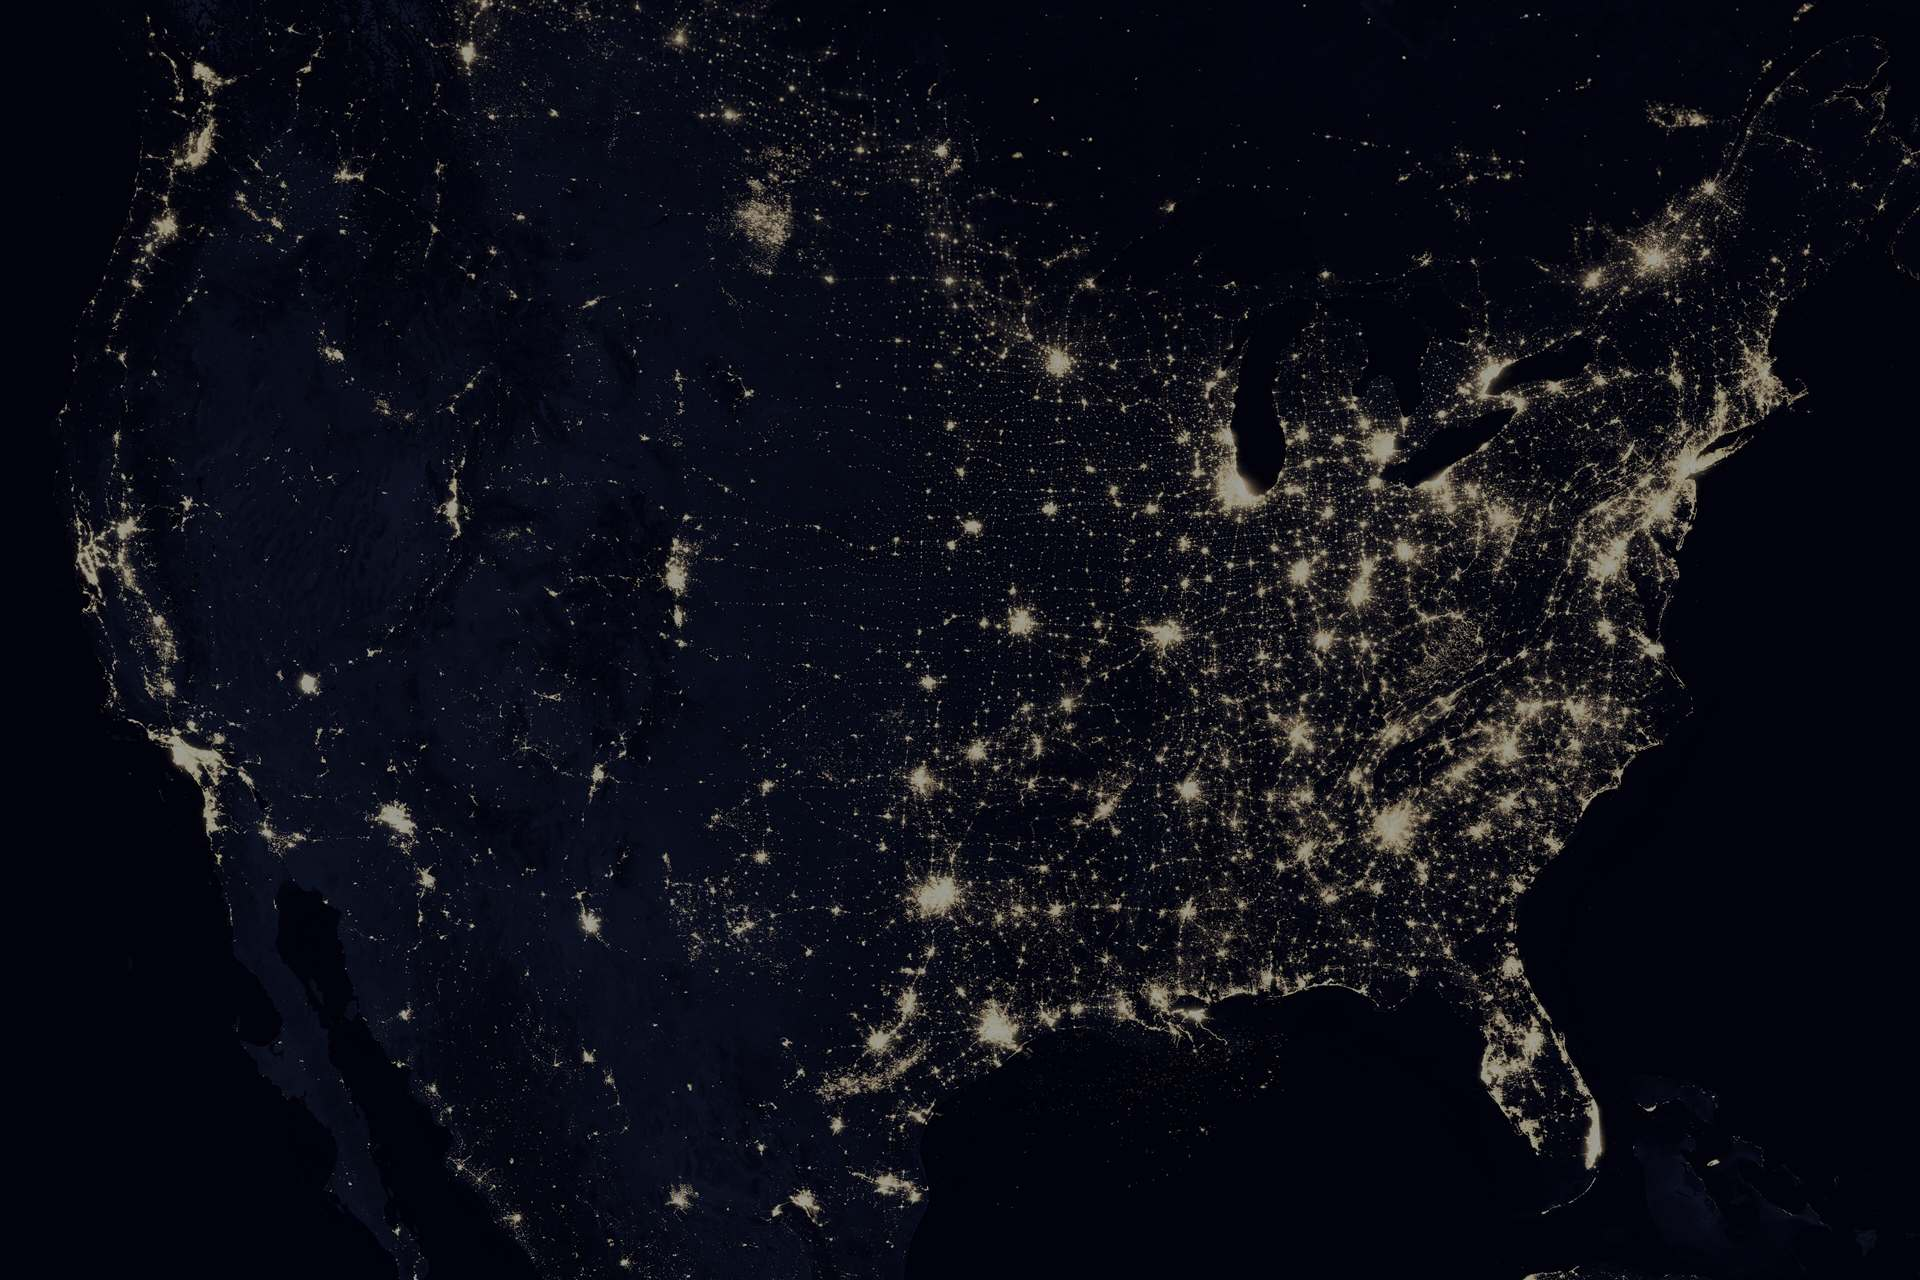
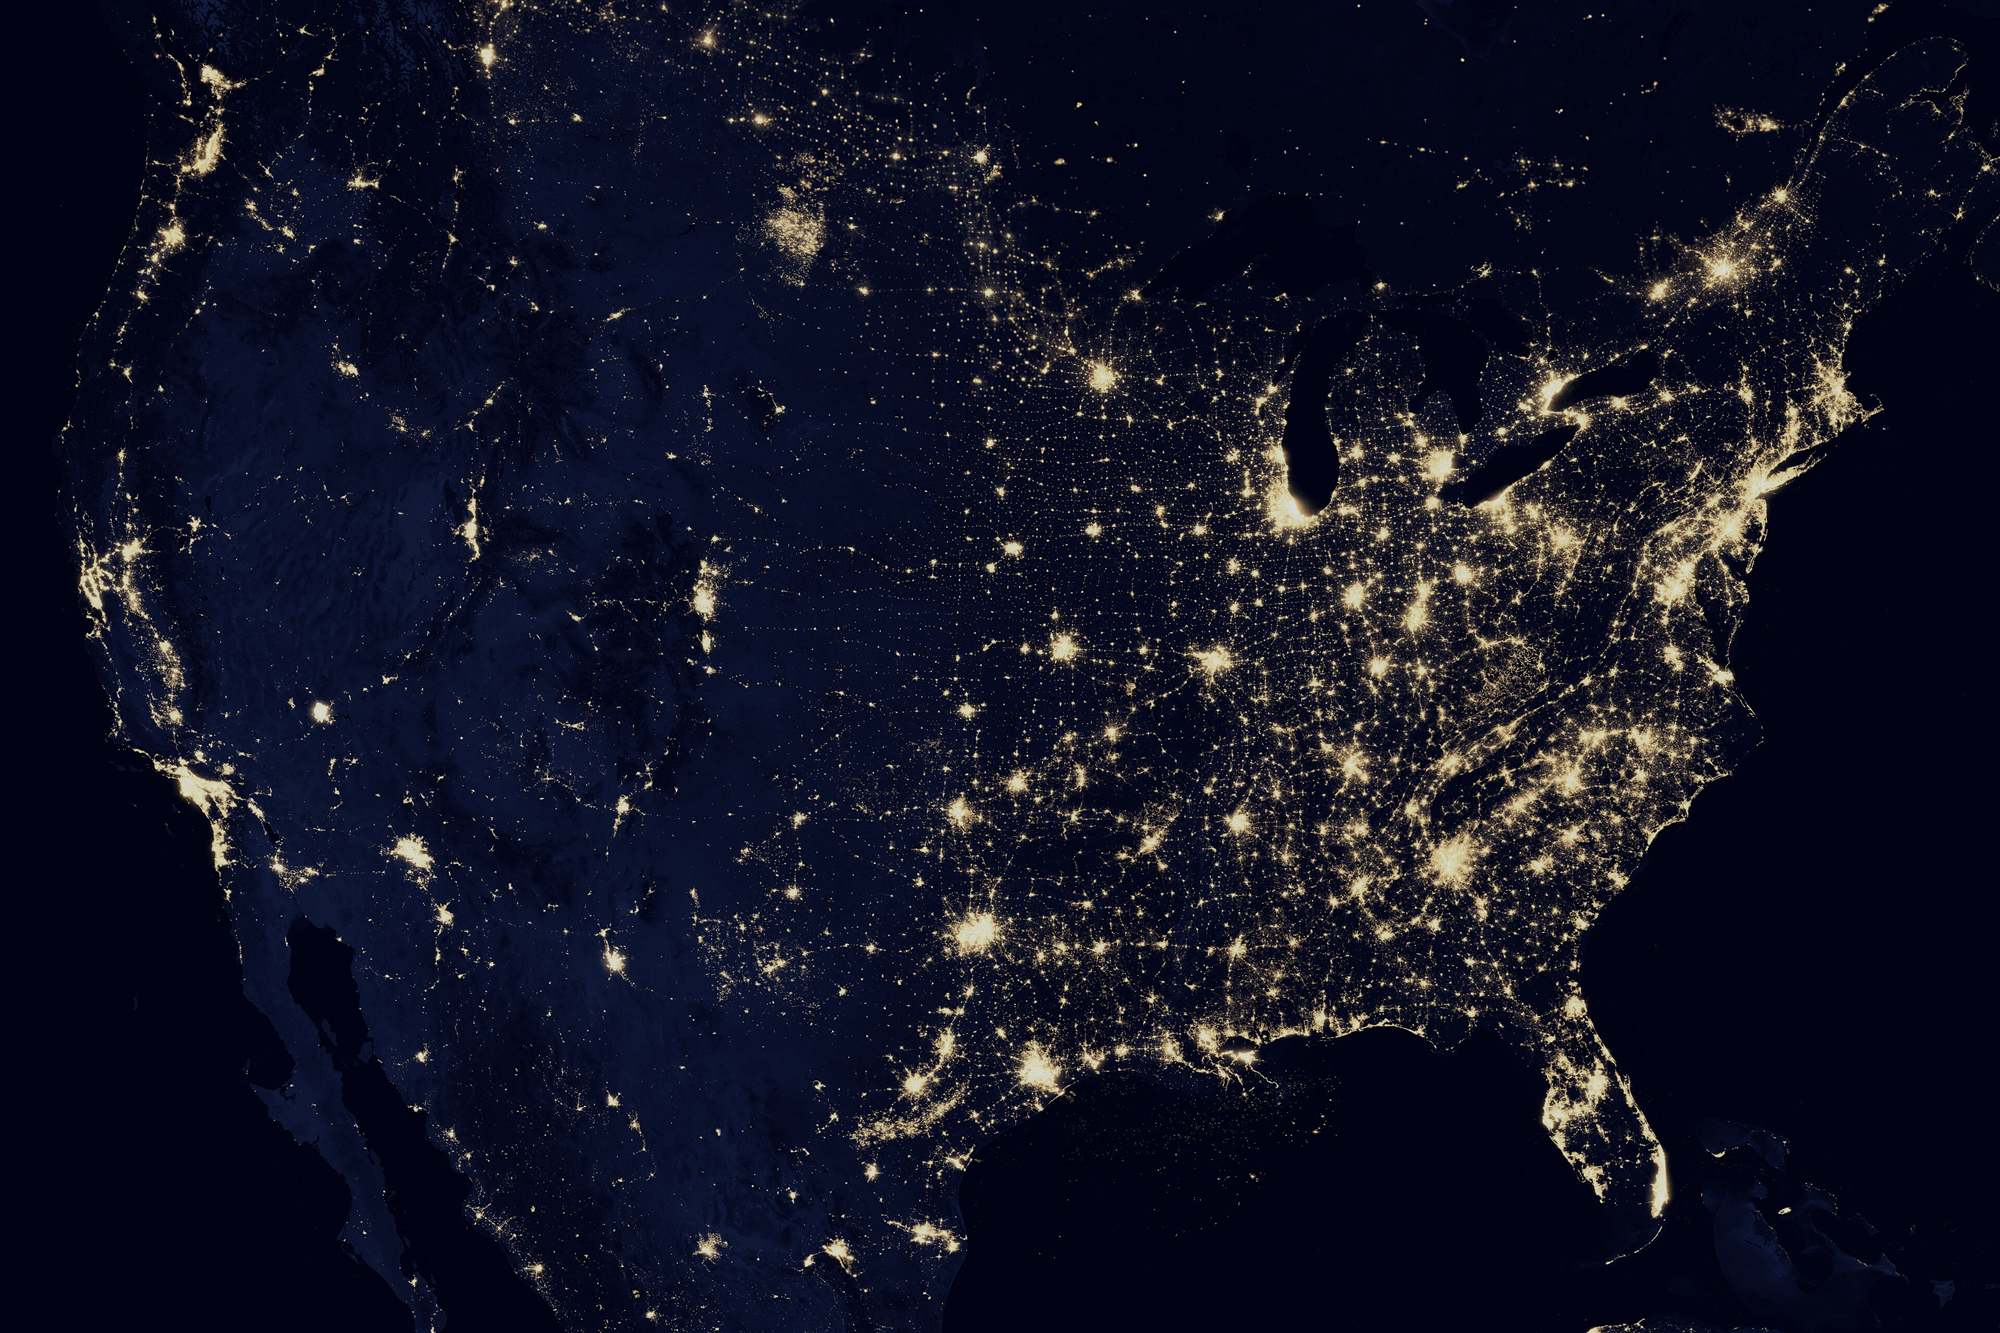
Plans photo: lighter matte, whole United States in frame; thin themed scrollbar

diff --git a/css/style.css b/css/style.css
@@ -572,9 +572,11 @@ section { position: relative; }
 .footer-credits a { color: var(--text-soft); border-bottom: 1px dotted var(--line-strong); }
 
 /* ---------- Plans section over a photograph (home page) ----------
-   NASA Earth Observatory's "City Lights of the United States 2012" (public domain), saved already muted
-   (55% saturation, 62% brightness) so no CSS filter runs while scrolling. The section stays dark in both
-   themes, like the hero; cards and the table sit on translucent panels so the photo shows between them. */
+   NASA Earth Observatory's "City Lights of the United States 2012" (public domain), saved lightly muted
+   (75% saturation, 85% brightness) so no CSS filter runs while scrolling. The whole photo spans the width of the
+   screen from the top of the section, so the outline of the United States reads at a glance, then fades into the
+   background (the photo is 3:2, so its height is 66.7vw). The section stays dark in both themes, like the hero;
+   cards and the table sit on translucent panels so the lights show between them. */
 .section-photo {
   --bg: #0F1317; --bg-raised: #141A1F; --surface: #1A2128; --surface-2: #222A32;
   --text: #EEF2F5; --text-soft: #BCB6AE; --text-faint: #8D877F;
@@ -583,16 +585,23 @@ section { position: relative; }
   --ok: #62B883; --bad: #E2665C; --hover-tint: rgba(220, 230, 240, 0.07); --accent-glow: rgba(127, 169, 216, 0.7);
   color: var(--text);
   position: relative; isolation: isolate; overflow: hidden;
-  background: #0F1317 url("../assets/img/plans-night.jpg") 50% 35% / cover no-repeat;
+  background: #0F1317 url("../assets/img/plans-night.jpg") 50% 0 / 100% auto no-repeat;
 }
 .section-photo::before {
   content: ""; position: absolute; inset: 0; z-index: -1; pointer-events: none;
-  background: linear-gradient(180deg, rgba(15,19,23,.80) 0%, rgba(15,19,23,.50) 40%, rgba(15,19,23,.70) 70%, rgba(15,19,23,.92) 100%);
+  background: linear-gradient(180deg, rgba(15,19,23,.55) 0, rgba(15,19,23,.22) 18vw, rgba(15,19,23,.35) 45vw, #0F1317 66.7vw);
 }
-.section-photo .plan { background: rgba(26, 33, 40, 0.86); -webkit-backdrop-filter: blur(6px); backdrop-filter: blur(6px); }
+.section-photo .section-head { text-shadow: 0 1px 2px rgba(0,0,0,.7), 0 0 18px rgba(6,9,12,.95); }
+.section-photo .section-head p { color: #D3D8DD; }
+.section-photo .plan { background: rgba(26, 33, 40, 0.82); -webkit-backdrop-filter: blur(5px); backdrop-filter: blur(5px); }
 .section-photo .table-wrap { background: rgba(15, 19, 23, 0.80); -webkit-backdrop-filter: blur(6px); backdrop-filter: blur(6px); }
-/* Phones: the section is very tall, so the photo only sits behind its top (title and first cards) and fades out. */
+/* Phones: the map sits behind the title, a little larger and lower so the country stays readable. */
 @media (max-width: 600px) {
-  .section-photo { background-size: auto 1300px; background-position: 64% 0; }
-  .section-photo::before { background: linear-gradient(180deg, rgba(15,19,23,.80) 0, rgba(15,19,23,.50) 420px, rgba(15,19,23,.85) 1000px, #0F1317 1300px); }
+  .section-photo { background-size: 125% auto; background-position: 55% 24px; }
+  .section-photo::before { background: linear-gradient(180deg, rgba(15,19,23,.50) 0, rgba(15,19,23,.20) 30vw, rgba(15,19,23,.45) 70vw, #0F1317 calc(24px + 83.4vw)); }
 }
+
+/* ---------- Scrollbar ----------
+   A thin scrollbar in the theme colours instead of the default grey bar. It stays visible: mouse users rely on
+   it to see where they are and to scroll. */
+html { scrollbar-width: thin; scrollbar-color: var(--line-strong) var(--bg); }
